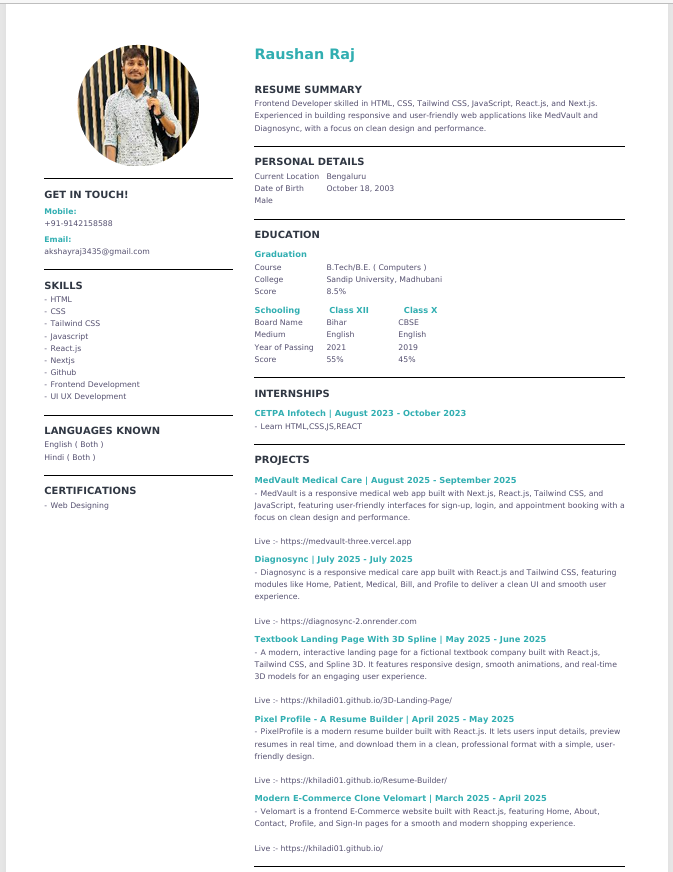
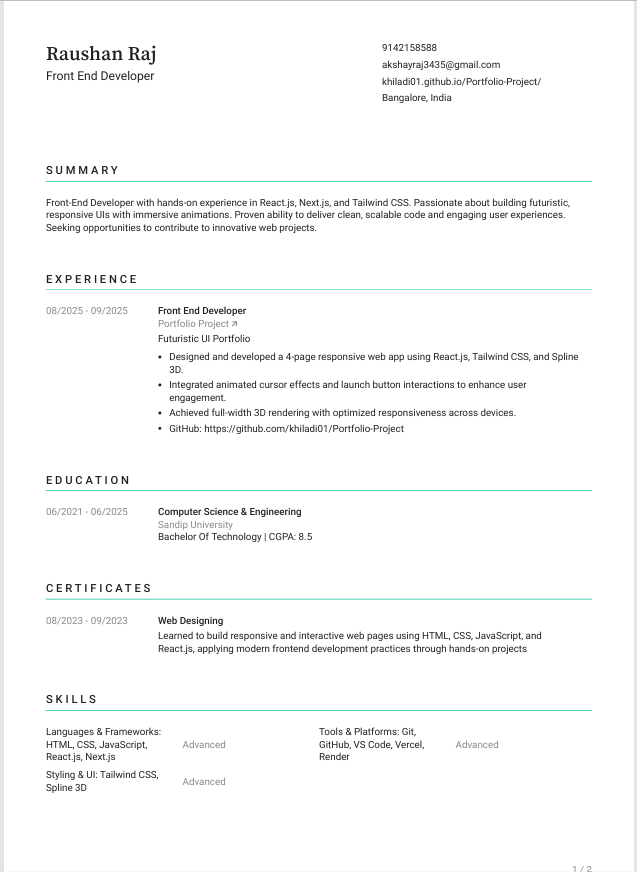
feat :adding new resume

diff --git a/src/Pages/Resume.jsx b/src/Pages/Resume.jsx
@@ -1,5 +1,5 @@
 import "../style/Edit.css";
-import Resumeimage from "../assets/Resume/Raushan Raj Resume.png";
+import Resumeimg from "../assets/Resume/raj.png";
 import { Link } from "react-router-dom";
 import { useEffect, useRef } from "react";
 import Swal from "sweetalert2";
@@ -75,7 +75,7 @@ function Resume() {
             className="w-full max-w-[650px] rounded-sm flex justify-center items-center"
           >
             <img
-              src={Resumeimage}
+              src={Resumeimg}
               alt="Resume Image"
               className="w-full h-auto rounded-md object-contain"
             />

diff --git a/index.html b/index.html
@@ -4,7 +4,7 @@
     <meta charset="UTF-8" />
     <link rel="Icon" type="svg" href="./src/assets/favicon/Icon.png" />
     <meta name="viewport" content="width=device-width, initial-scale=1.0" />
-    <title>ROSUPRINT</title>
+    <title>Raushan Raj-Portfolio</title>
   </head>
   <body class="bg-gradient-to-b from-slate-900 via-black to-purple-950 text-white">
     <div id="root"></div>
